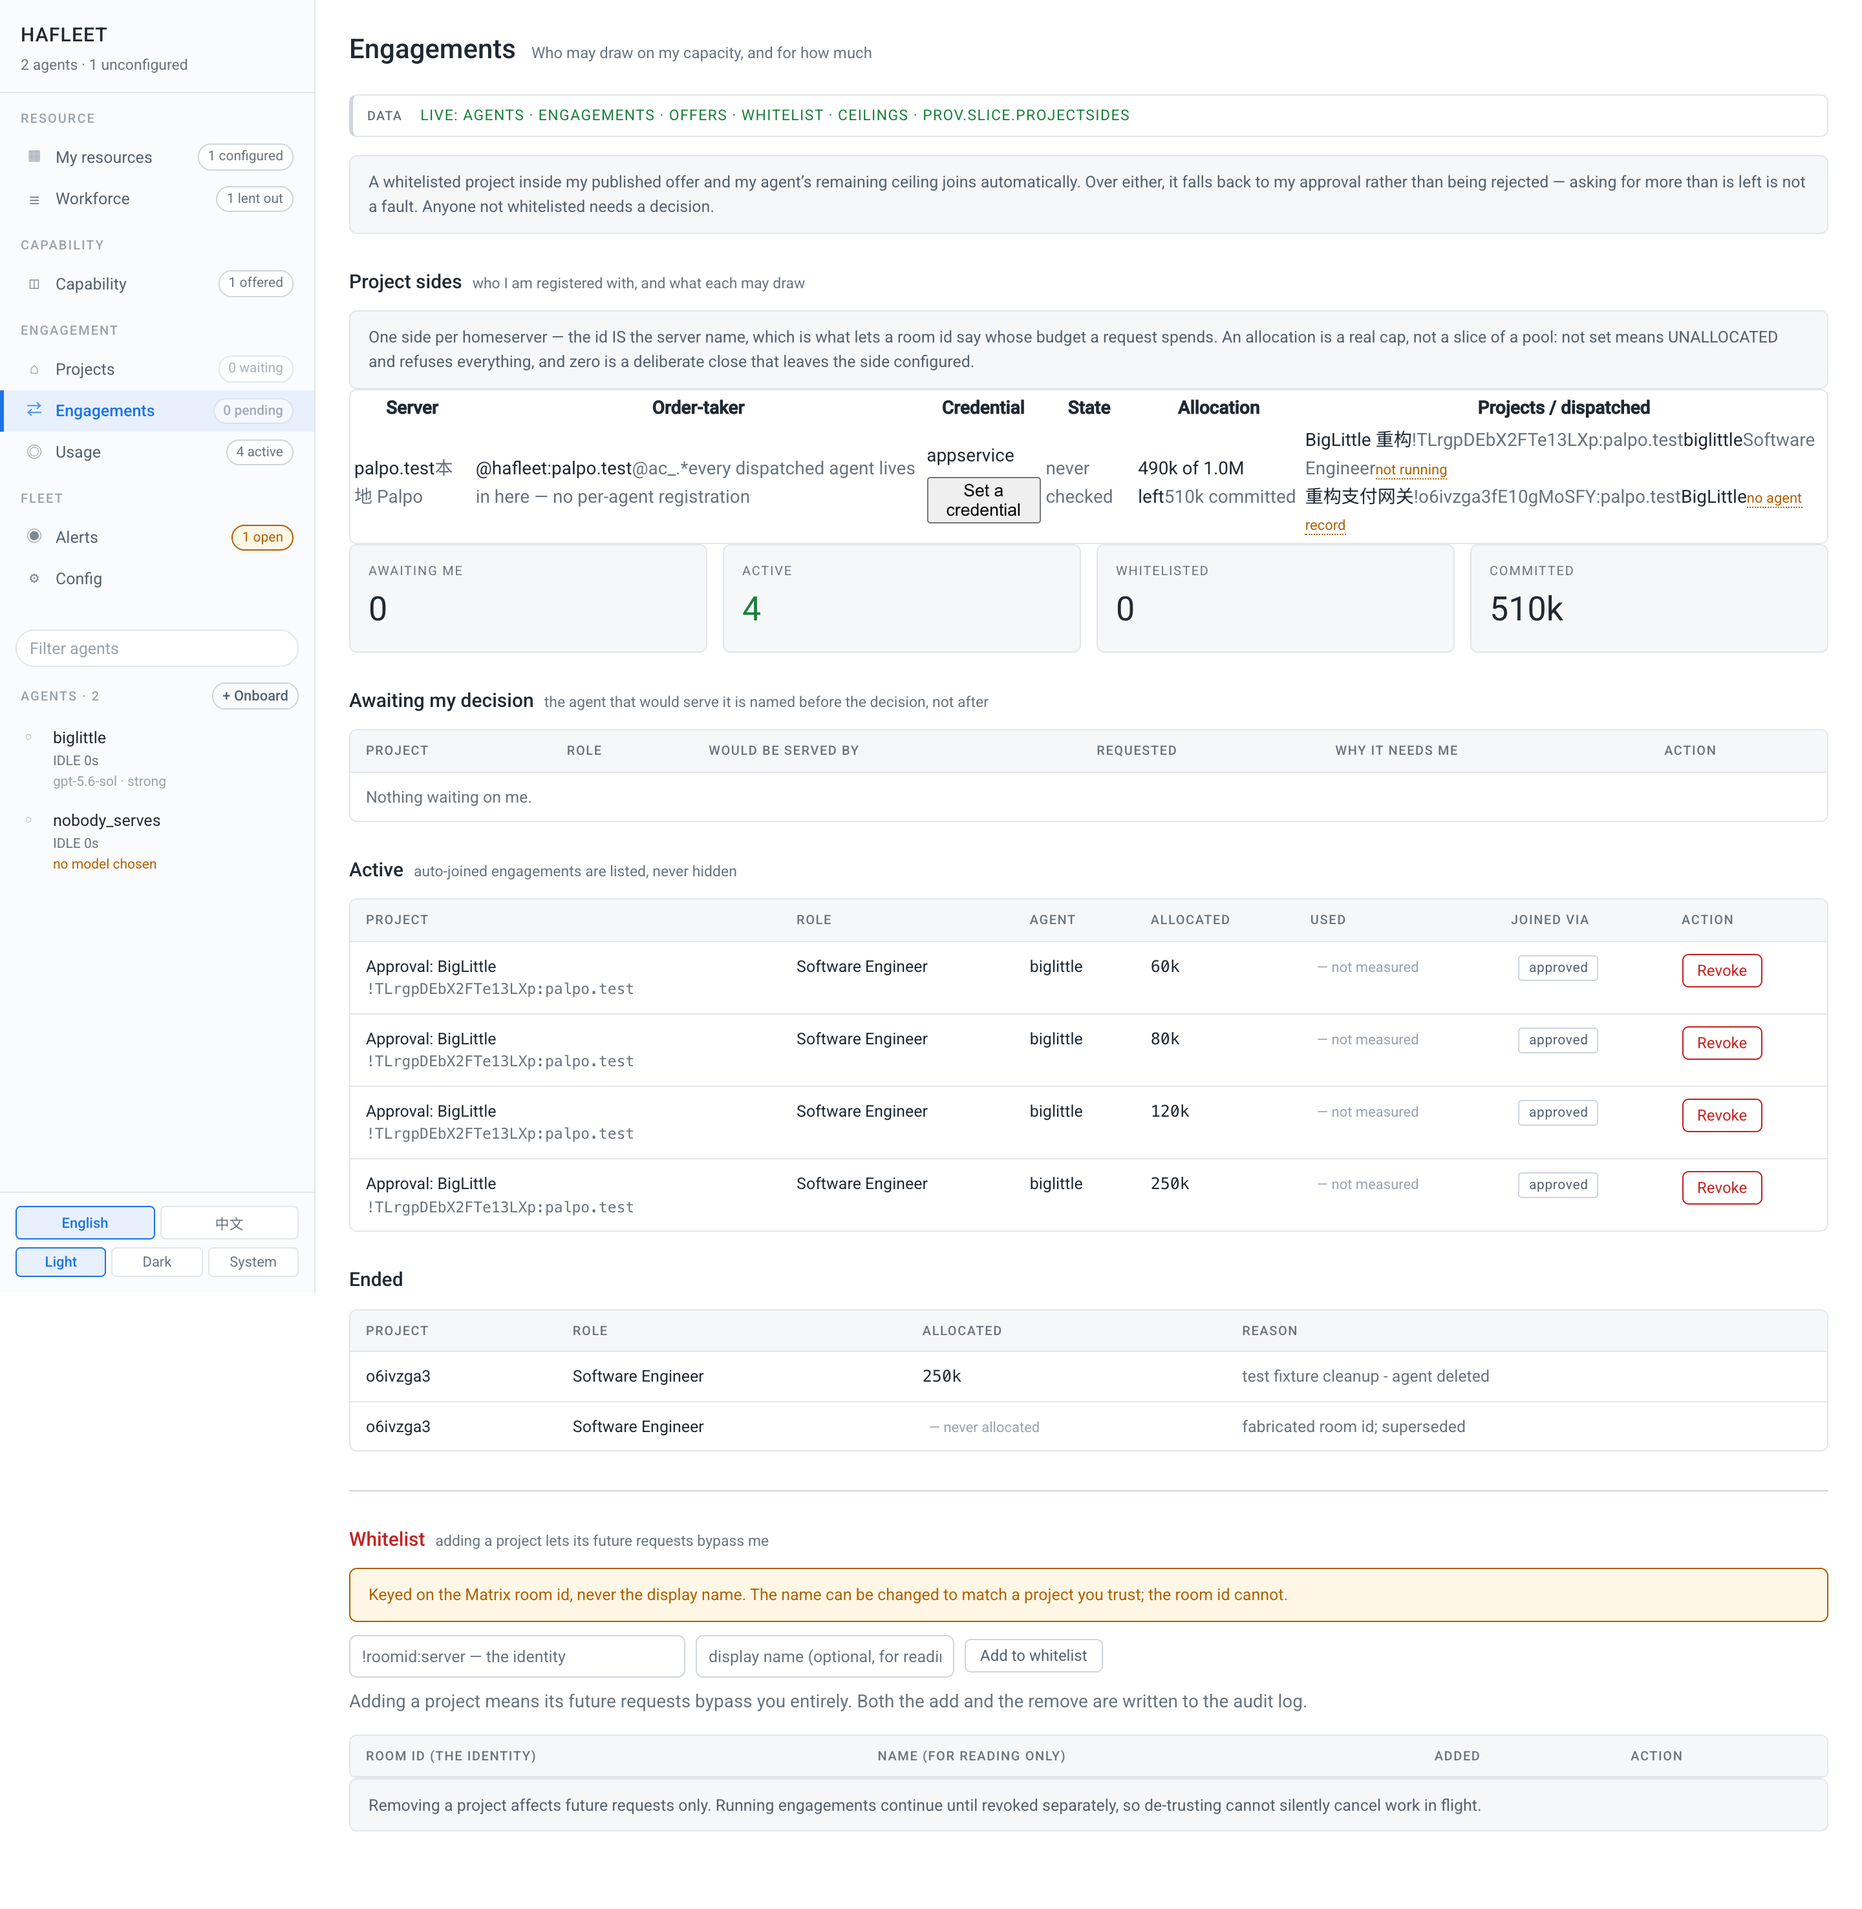
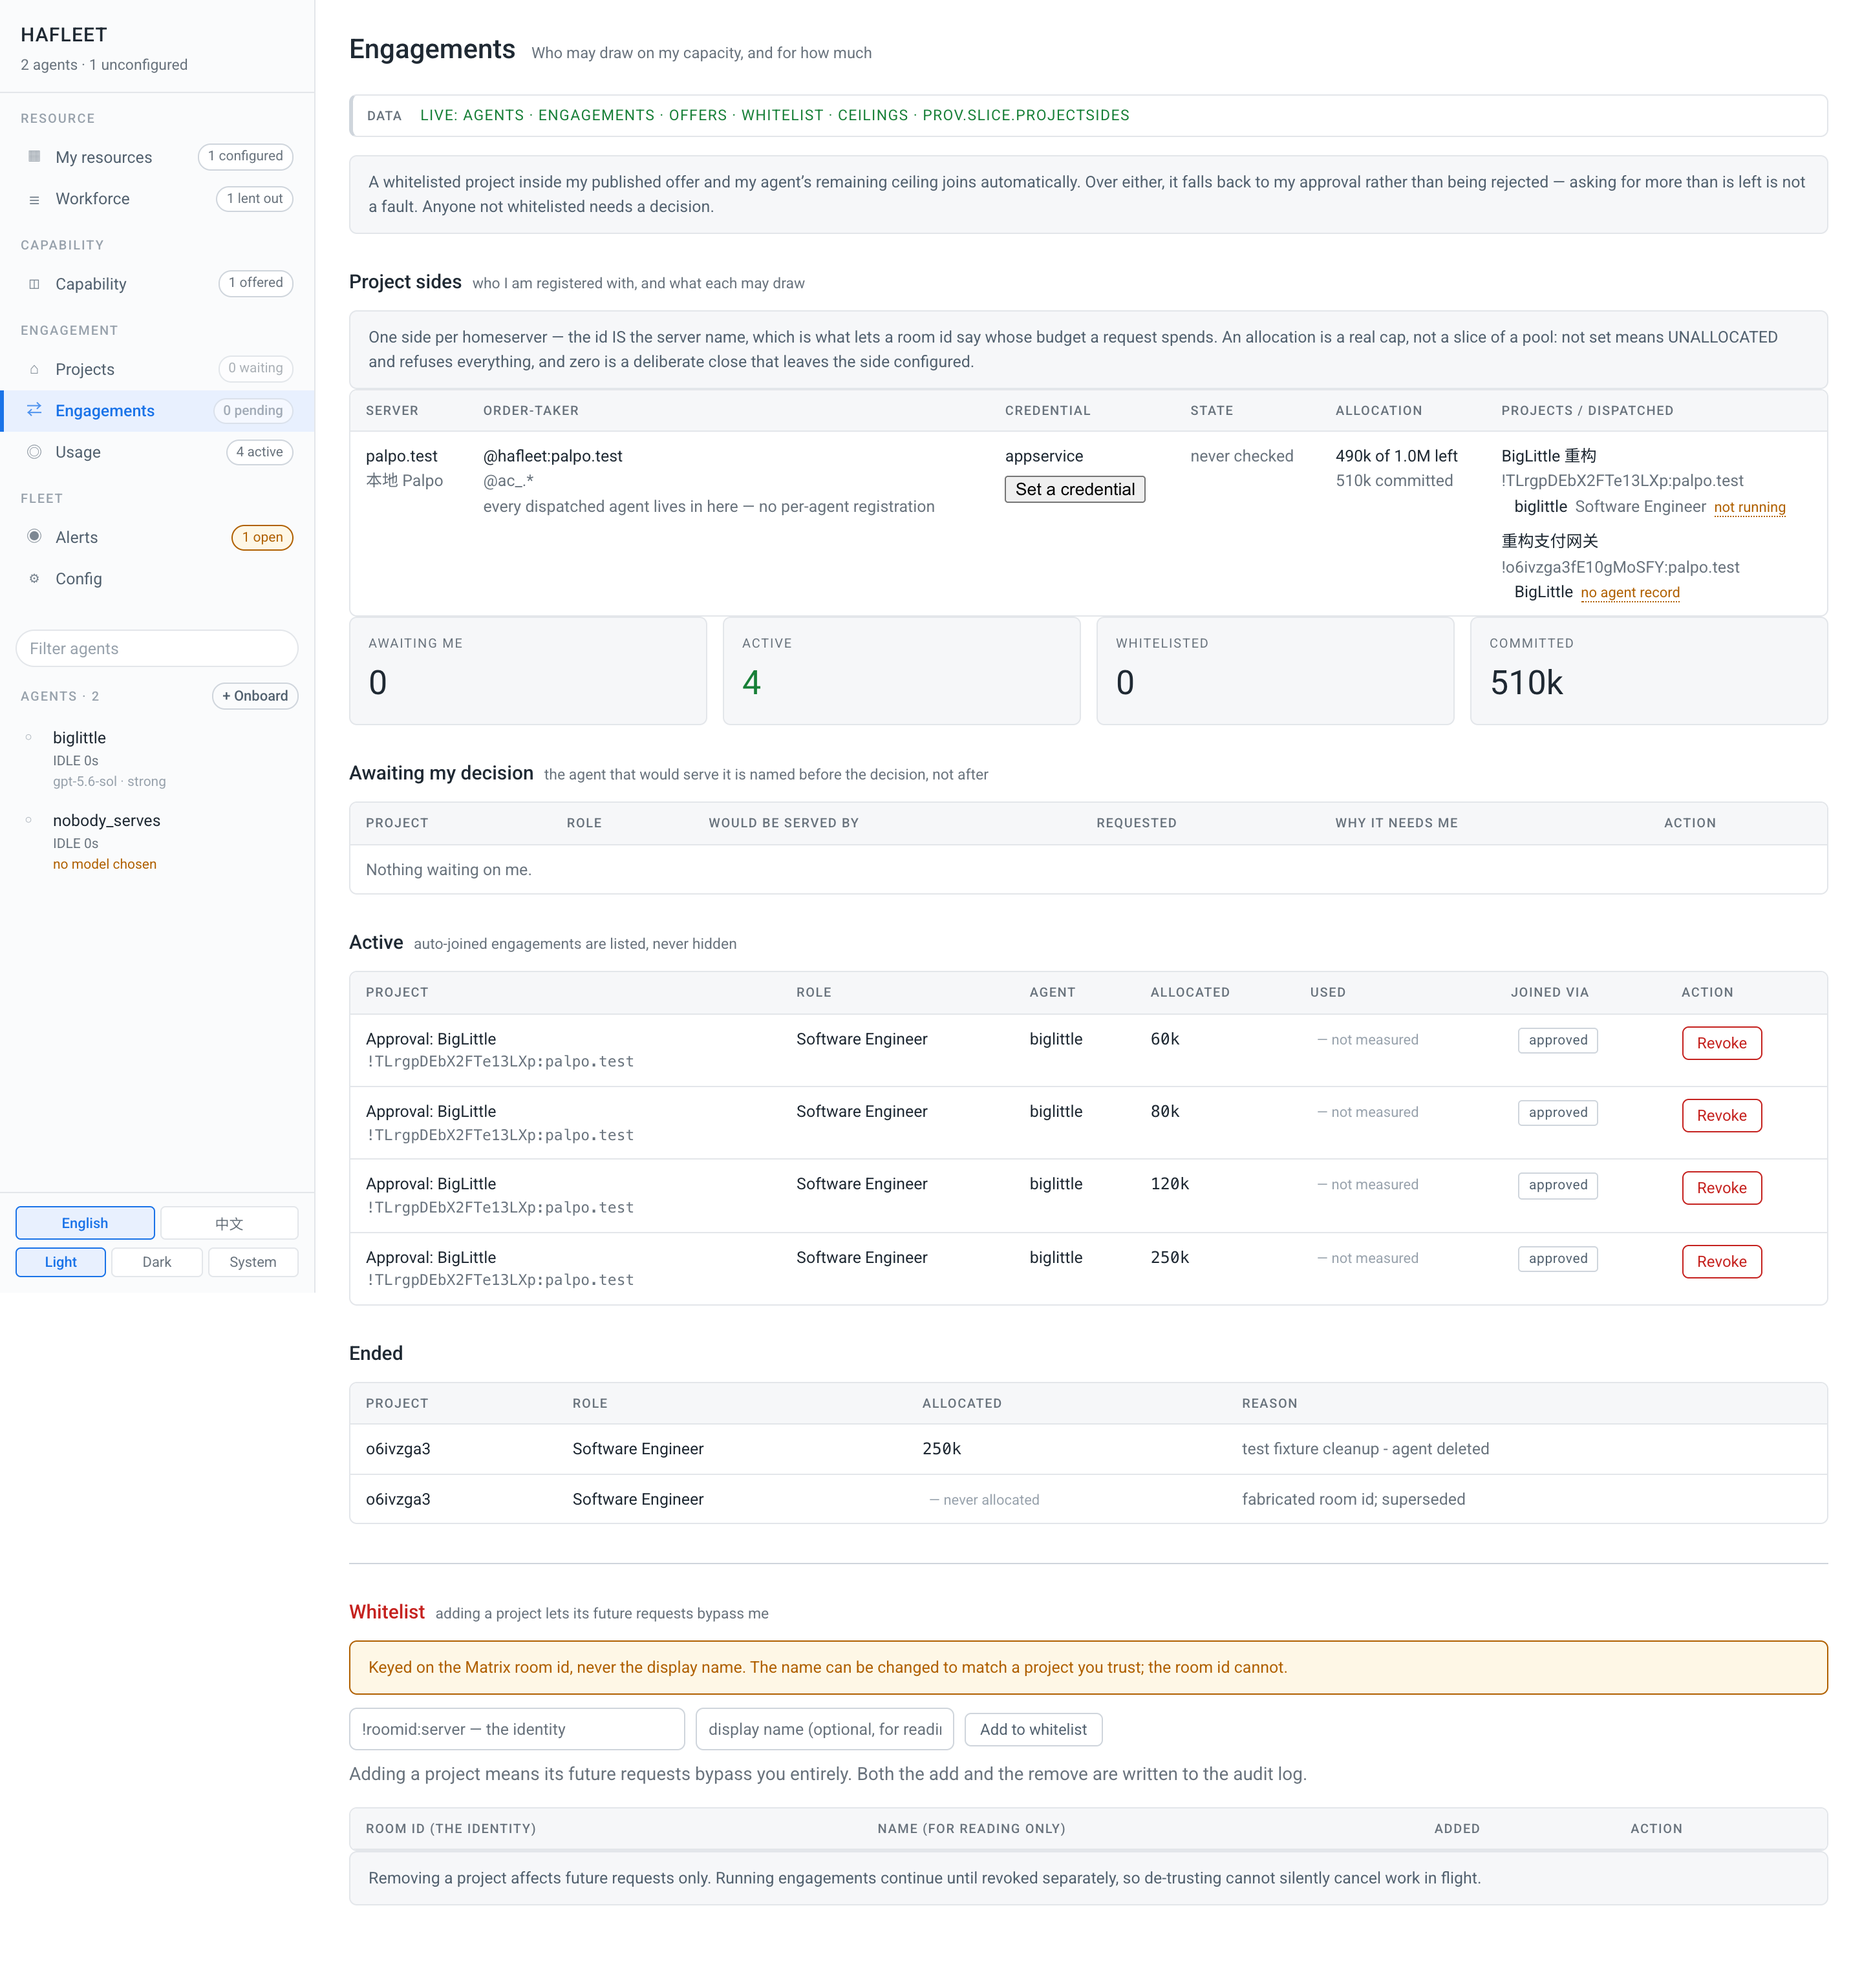
Unweld the 项目方 table, and close the gap that let it ship
The table had no `tbl` class, so all three anti-weld rules — `.tbl td >
span.dim`, `.tbl td .proj`, `.tbl td .staff` — missed it entirely and it
shipped `palpo.test本地 Palpo` and `490k of 1.0M left510k committed`. It
is the only table in the console without that class.

THE GUARD IS THE REAL BUG. check-switches.mjs asserted `.tbl td >
span.dim`, so it found nothing in this table while other tables on the
same page satisfied its `n > 0` count, and the page passed. Two changes
follow: the selector is now every `td` in every `table` and every element
child rather than only `.dim` ones — the first span in the allocation
cell carries no class at all, so a `.dim`-only rule cannot see what it
welds to — and the count is asserted PER TABLE, so "a table I never
examined" can no longer hide behind a sibling's spans.

The widened guard immediately found a second, live weld: the over-commit
warning under Approve/Reject uses `.stranded`, not `.dim`, and welded
into the button row. The CSS rule now covers the other secondary-line
classes; the class list was the accident, being a secondary LINE is the
rule.

Block-LEVEL, not the literal string 'block': the first version flagged a
flex container as a weld, which would have taught the next reader to
distrust the guard.

Corrected on the way: the projects column is NOT welded. Its three parts
are separated by 6px margins and only look adjacent through `innerText`,
which concatenates. I had reported it as a defect from that reading; a
[…]

diff --git a/mockup/app/globals.css b/mockup/app/globals.css
@@ -1045,6 +1045,11 @@ h3.sub { font-size: 12.5px; font-weight: 600; margin: 2px 0 8px; color: var(--in
    the HTML is identical either way — so check-switches.mjs asserts the computed
    display instead. */
 .tbl td > span.dim { display: block; }
+/* AND `.stranded`, for the same reason. The rule was written for `.dim` because that was the class
+   the three known welds used; the over-commit warning under Approve/Reject uses `.stranded` and
+   welded into the button row — found when check-switches.mjs stopped looking only at `.dim`. The
+   class list is the accident here; being a secondary LINE is the rule. */
+.tbl td > span.stranded, .tbl td > span.ok, .tbl td > span.overqual { display: block; }
 
 /* 项目方 → 项目 → 外派员工, inside one cell.
  *

diff --git a/mockup/app/engagements/page.jsx b/mockup/app/engagements/page.jsx
@@ -123,7 +123,10 @@ function ProjectSides({ t }) {
         <div className="notice">{t('en.sidesEmpty')}</div>
       ) : (
         <div className="tbl-wrap">
-          <table>
+          {/* `tbl`, like every other table here. Without it the three anti-weld rules
+              (.tbl td > span.dim, .tbl td .proj, .tbl td .staff) missed this table entirely and it
+              shipped "490k of 1.0M left510k committed". */}
+          <table className="tbl">
             <thead>
               <tr>
                 <th>{t('en.colSide')}</th>
